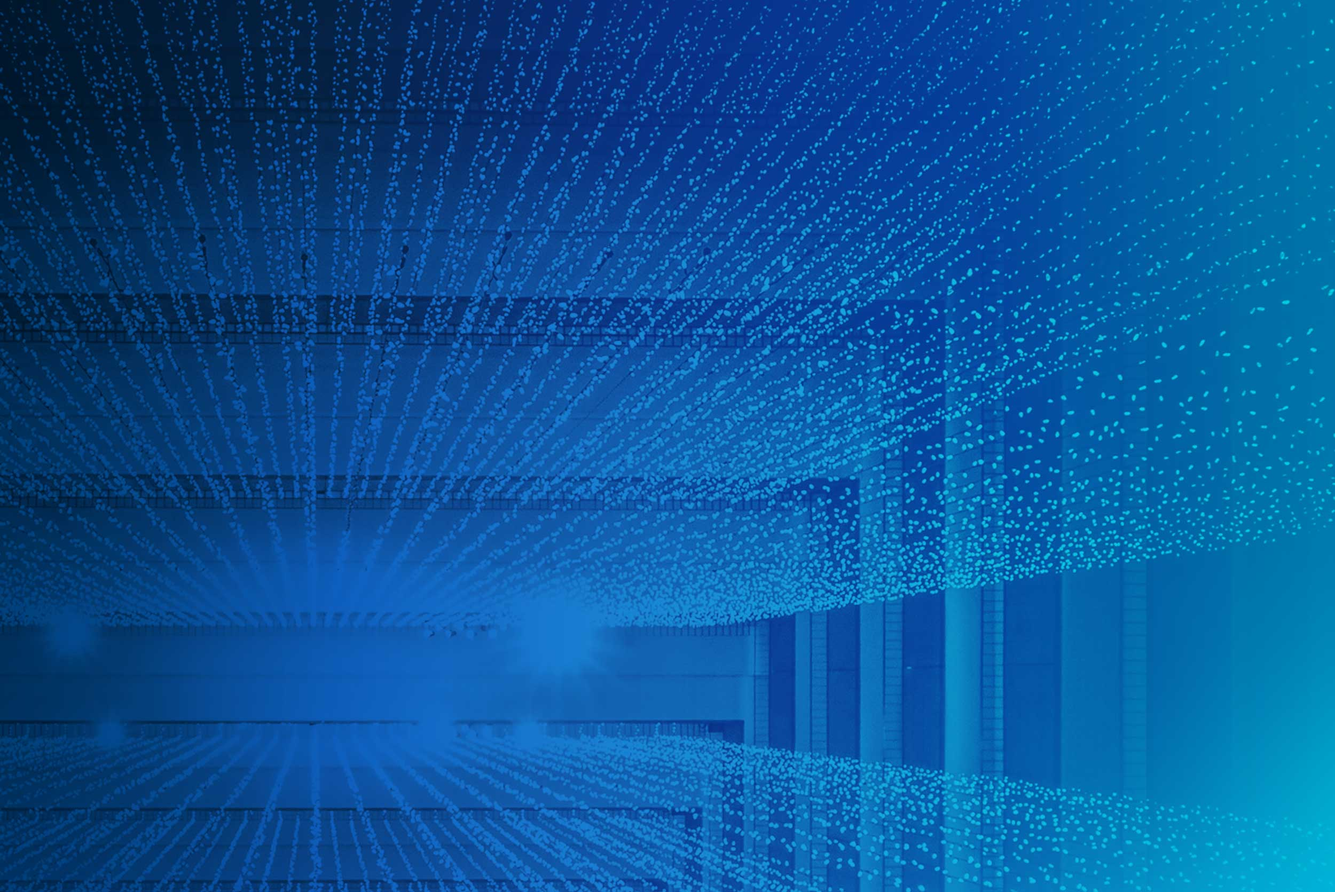
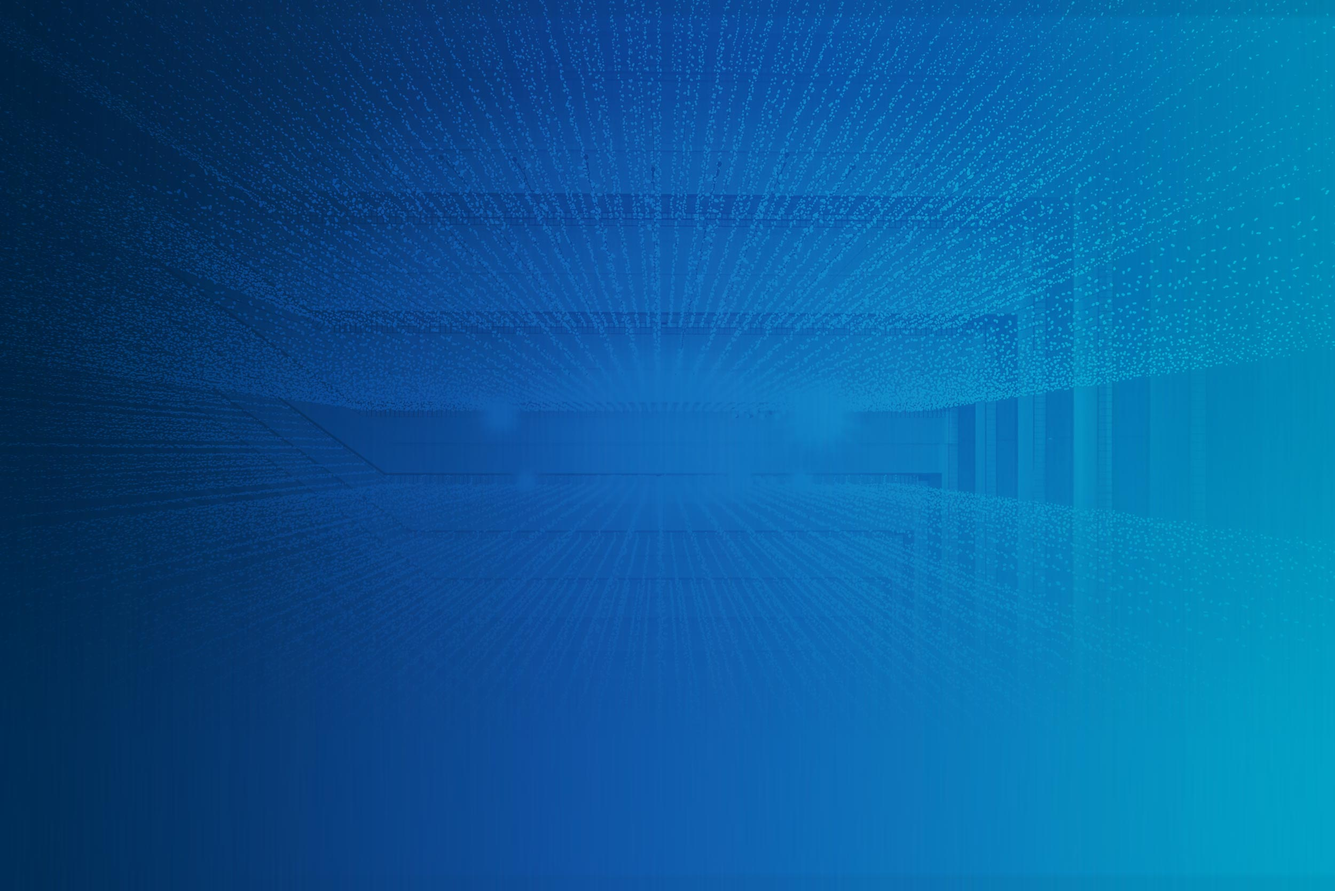
Plans page bugfixes (#2644)
* Apply a few extra bugfixes, emphasis on responsiveness
* New and improved background image on Plans page

diff --git a/sirepo/package_data/static/en/plans.html b/sirepo/package_data/static/en/plans.html
@@ -85,74 +85,68 @@
             </h3>
             <hr class="gradient-rule" />
 
-            <div class="row public-plans">
-              <article class="col-sm-12 col-md-4">
-                <div class="plan">
-                  <h4 class="text-center plan-name" style="background-image: url('/en/img/plans/sirepo-basic.jpg');">Sirepo<br>Basic</h4>
-                  <h4 class="text-center dollars">Free</h4>
-                  <ul>
-                    <li>10 Minutes Max Run Time*</li>
-                    <li class="paid">Data Back Up Plan<span style="display: none;"> not included</span></li>
-                    <li>Github Support</li>
-                    <li class="paid">Scientific Consulting<span style="display: none;"> not included</span></li>
-                    <li class="paid">Persistent Data Storage<span style="display: none;"> not included</span></li>
-                    <li class="paid">Guaranteed Access to Cores<span style="display: none;"> not included</span></li>
-                    <li>1 Concurrent Sim</li>
-                  </ul>
-                  <p class="disclaimer text-center">
-                    *Run time subject to maintenance periods<br>
-                    &nbsp;
-                  </p>
-                  <p class="text-center">
-                    <a href="http://www.radiasoft.net/sirepo/?sg_popup_id=2953" target="_blank" class="btn-link"><span>Choose plan</span></a>
-                  </p>
-                </div>
+            <div class="public-plans">
+              <article class="plan">
+                <h4 class="text-center plan-name" style="background-image: url('/en/img/plans/sirepo-basic.jpg');">Sirepo<br>Basic</h4>
+                <h4 class="text-center dollars">Free</h4>
+                <ul>
+                  <li>10 Minutes Max Run Time*</li>
+                  <li class="paid">Data Back Up Plan<span style="display: none;"> not included</span></li>
+                  <li>Github Support</li>
+                  <li class="paid">Scientific Consulting<span style="display: none;"> not included</span></li>
+                  <li class="paid">Persistent Data Storage<span style="display: none;"> not included</span></li>
+                  <li class="paid">Guaranteed Access to Cores<span style="display: none;"> not included</span></li>
+                  <li>1 Concurrent Sim</li>
+                </ul>
+                <p class="disclaimer text-center">
+                  *Run time subject to maintenance periods<br>
+                  &nbsp;
+                </p>
+                <p class="text-center">
+                  <a href="http://www.radiasoft.net/sirepo/?sg_popup_id=2953" target="_blank" class="btn-link"><span>Choose plan</span></a>
+                </p>
               </article>
 
-              <article class="col-sm-12 col-md-4">
-                <div class="plan">
-                  <h4 class="text-center plan-name" style="background-image: url('/en/img/plans/sirepo-premium.jpg');">Sirepo<br>Premium</h4>
-                  <h4 class="text-center dollars">$2,499</h4>
-                  <ul>
-                    <li>24 Hours Max Run Time*</li>
-                    <li>Data Back Up Plan</li>
-                    <li>Email Customer Support</li>
-                    <li>4 Hours of Scientific Consulting**</li>
-                    <li>Persistent Data Storage</li>
-                    <li>Guaranteed Access to Cores</li>
-                    <li>1 Concurrent Sim</li>
-                  </ul>
-                  <p class="disclaimer text-center">
-                    *Run time subject to maintenance periods<br>
-                    **Scientific Consulting must be used in the first month
-                  </p>
-                  <p class="text-center">
-                    <a href="http://www.radiasoft.net/sirepo/?sg_popup_id=2955" target="_blank" class="btn-link"><span>Choose plan</span></a>
-                  </p>
-                </div>
+              <article class="plan">
+                <h4 class="text-center plan-name" style="background-image: url('/en/img/plans/sirepo-premium.jpg');">Sirepo<br>Premium</h4>
+                <h4 class="text-center dollars">$2,499</h4>
+                <ul>
+                  <li>24 Hours Max Run Time*</li>
+                  <li>Data Back Up Plan</li>
+                  <li>Email Customer Support</li>
+                  <li>4 Hours of Scientific Consulting**</li>
+                  <li>Persistent Data Storage</li>
+                  <li>Guaranteed Access to Cores</li>
+                  <li>1 Concurrent Sim</li>
+                </ul>
+                <p class="disclaimer text-center">
+                  *Run time subject to maintenance periods<br>
+                  **Scientific Consulting must be used in the first month
+                </p>
+                <p class="text-center">
+                  <a href="http://www.radiasoft.net/sirepo/?sg_popup_id=2955" target="_blank" class="btn-link"><span>Choose plan</span></a>
+                </p>
               </article>
 
-              <article class="col-sm-12 col-md-4">
-                <div class="plan">
-                  <h4 class="text-center plan-name" style="background-image: url('/en/img/plans/sirepo-enterprise.jpg');">Sirepo<br>Enterprise</h4>
-                  <h4 class="text-center dollars">$9,900</h4>
-                  <ul>
-                    <li>Unlimited Run Time*</li>
-                    <li>Data Back Up Plan</li>
-                    <li>Phone & Email Customer Support</li>
-                    <li>16 Hours of Scientific Consulting**</li>
-                    <li>Persistent Data Storage</li>
-                    <li>Guaranteed Access to Cores</li>
-                    <li>Unlimited Concurrent Sims</li>
-                  </ul>
-                  <p class="disclaimer text-center">
-                    *Run time subject to maintenance periods<br>
-                    **Scientific Consulting must be used in the first month
-                  </p>
-                  <p class="text-center">
-                    <a href="http://www.radiasoft.net/sirepo/?sg_popup_id=2956" target="_blank" class="btn-link"><span>Choose plan</span></a>
-                  </p>
-                </div>
+              <article class="plan">
+                <h4 class="text-center plan-name" style="background-image: url('/en/img/plans/sirepo-enterprise.jpg');">Sirepo<br>Enterprise</h4>
+                <h4 class="text-center dollars">$9,900</h4>
+                <ul>
+                  <li>Unlimited Run Time*</li>
+                  <li>Data Back Up Plan</li>
+                  <li>Phone & Email Customer Support</li>
+                  <li>16 Hours of Scientific Consulting**</li>
+                  <li>Persistent Data Storage</li>
+                  <li>Guaranteed Access to Cores</li>
+                  <li>Unlimited Concurrent Sims</li>
+                </ul>
+                <p class="disclaimer text-center">
+                  *Run time subject to maintenance periods<br>
+                  **Scientific Consulting must be used in the first month
+                </p>
+                <p class="text-center">
+                  <a href="http://www.radiasoft.net/sirepo/?sg_popup_id=2956" target="_blank" class="btn-link"><span>Choose plan</span></a>
+                </p>
               </article>
             </div>
           </div>

diff --git a/sirepo/package_data/static/en/css/landing.css b/sirepo/package_data/static/en/css/landing.css
@@ -93,9 +93,6 @@
 .landing a:focus {
   text-decoration: none;
 }
-.landing img {
-  max-width: 100%;
-}
 .landing .btn-link {
   position: relative;
   display: inline-block;
@@ -705,10 +702,18 @@
   background-color: white;
   padding-bottom: 40px;
 }
+.landing .public-plans {
+  display: flex;
+  margin: 0 -15px;
+}
 .landing .public-plans .plan {
   border: 2px solid black;
   border-radius: 15px;
+  display: flex;
+  flex-direction: column;
+  margin: 0 15px;
   overflow: hidden;
+  width: calc((100% / 3) - 30px);
 }
 .landing .public-plans .plan .plan-name {
   background-position: center bottom;
@@ -721,6 +726,7 @@
   color: #00a2c5;
 }
 .landing .public-plans .plan ul {
+  flex: 1;
   list-style-type: none;
   padding: 15px;
 }
@@ -1003,6 +1009,12 @@
     width: 200%;
     margin-left: -50%;
   }
+  .landing .header-decoration::before {
+    left: -30px;
+  }
+  .landing .header-decoration::after {
+    right: -30px;
+  }
   .landing .get-started .get-started-next,
   .landing .get-started .get-started-prev {
     position: absolute;
@@ -1048,8 +1060,12 @@
   .landing .pricing-plans .btn-link {
     margin: 24px 0;
   }
+  .landing .public-plans {
+    margin: 0 -15px;
+  }
   .landing .public-plans .plan {
-    margin-bottom: 32px;
+    margin: 0 5px;
+    width: calc((100% / 3) - 10px);
   }
   .landing .public-plans .btn-link {
     margin: 24px;
@@ -1137,6 +1153,14 @@
   }
   .landing .header-decoration::after {
     display: none;
+  }
+  .landing .public-plans {
+    display: block;
+    margin: 0;
+  }
+  .landing .public-plans .plan {
+    margin: 0 auto 32px;
+    width: 100%;
   }
   .landing .simulations .simulation-items {
     flex-direction: column;

diff --git a/sirepo/package_data/static/en/css/responsive.scss b/sirepo/package_data/static/en/css/responsive.scss
@@ -69,6 +69,16 @@
       }
     }
 
+    .header-decoration {
+      &::before {
+        left: -30px;
+      }
+
+      &::after {
+        right: -30px;
+      }
+    }
+
     .get-started {
       @include get-started-prev-next-arrows(100px, 30px, 0);
 
@@ -90,8 +100,11 @@
     }
 
     .public-plans {
+      margin: 0 -15px;
+
       .plan {
-        margin-bottom: 32px;
+        margin: 0 5px;
+        width: calc((100% / 3) - 10px);
       }
 
       .btn-link {
@@ -221,6 +234,16 @@
 
       &::after {
         display: none;
+      }
+    }
+
+    .public-plans {
+      display: block;
+      margin: 0;
+
+      .plan {
+        margin: 0 auto 32px;
+        width: 100%;
       }
     }
 

diff --git a/sirepo/package_data/static/en/css/main.scss b/sirepo/package_data/static/en/css/main.scss
@@ -157,10 +157,6 @@
     }
   }
 
-  img {
-    max-width: 100%;
-  }
-
   .btn-link {
     position: relative;
     display: inline-block;
@@ -902,10 +898,16 @@
   }
 
   .public-plans {
+    display: flex;
+    margin: 0 -15px;
     .plan {
       border: 2px solid black;
       border-radius: 15px;
+      display: flex;
+      flex-direction: column;
+      margin: 0 15px;
       overflow: hidden;
+      width: calc((100% / 3) - 30px);
 
       .plan-name {
         background-position: center bottom;
@@ -920,6 +922,7 @@
       }
 
       ul {
+        flex: 1;
         list-style-type: none;
         padding: 15px;
 
